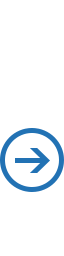
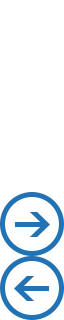
add back to home in post page

Changed region(s): [[0.0, 0.5, 1.0, 1.0]]

diff --git a/source/_includes/article.html b/source/_includes/article.html
@@ -7,9 +7,8 @@
 		{% endif %}
 	</div>
 	<h1 class="title"><a href="{{ root_url }}{{ post.url }}">{% if site.titlecase %}{{ post.title | titlecase }}{% else %}{{ post.title }}{% endif %}</a>
-		<h4 class="postedby">{% include post/author.html %}</h4>
-		<!--hr/-->
 	</h1>
+	<h4 class="postedby">{% include post/author.html %}</h4>
 
 	<div class="entry-content">
 		{{ content | excerpt }}
@@ -17,6 +16,15 @@
 		{% if excerpted == 'true' %}<a href="{{ root_url }}{{ post.url }}" class="more-link">{{ site.excerpt_link }}</a>{% endif %}
 	</div>
 {% else %}
+	<div class="meta">
+		<div class="date">{% include post/date.html %}{{ time }}</div>
+		<div class="tags">{% include post/categories.html %}</div>
+		{% if site.disqus_short_name and site.disqus_show_comment_count == true %}
+			<span class="comments"><a href="{{ root_url }}{{ post.url }}#disqus_thread">Comments</a></span>
+		{% endif %}
+	</div>
+	<a href="/" class="post-back" title="返回首页">&nbsp;</a>
 	<h1 class="title">{% if site.titlecase %}{{ page.title | titlecase }}{% else %}{{ page.title }}{% endif %}</h1>
+	<h4 class="postedby">{% include post/author.html %}</h4>
 	<div class="entry-content">{{ content }}</div>
 {% endif %}

diff --git a/sass/_greyshade.scss b/sass/_greyshade.scss
@@ -74,11 +74,34 @@ body {
 		background: white;
 		//box-shadow: -10px 0 10px rgba(0, 0, 0, 0.2);
 		.mid-col-container {
-			padding: 0px 70px 0px 40px;
+			padding: 0px 80px 0px 70px;
 			#content {
 				width: 100%;
 				article {
 					border-top: none;
+					.post-back {
+						float: left;
+						
+						
+						width: 32px;
+						height:32px; 
+						background: url(/images/buttons.png) 0 -128px;
+						@media screen and (min-width: 769px) {
+							margin-left: -48px;
+							margin-top: 2px;
+						}
+						@media screen and (max-width: 768px) {
+							margin-left:0;
+							margin-top: -53px;
+							&::after {
+								content: "返回主页";
+								display: block;
+								margin: -0.8em 38px;
+								font-size: 1.6em;
+								width: 6em;
+							}
+						}
+					}
 					.title {
 						margin-left: 0px;
 

diff --git a/sass/parts/_article.scss b/sass/parts/_article.scss
@@ -38,7 +38,7 @@ article{
 				//border-radius: 60%;
 				width: 32px;
 				height: 32px;
-				background: url(/images/buttons.png) 0 -64px;
+				background: url(/images/buttons.png) 0 -96px;
 				background-image: -webkit-image-set(url(/images/buttons.png) 1x, url(/images/buttons@2x.png) 2x);
 				text-align: center;
 				font: 16px $font-icon;
